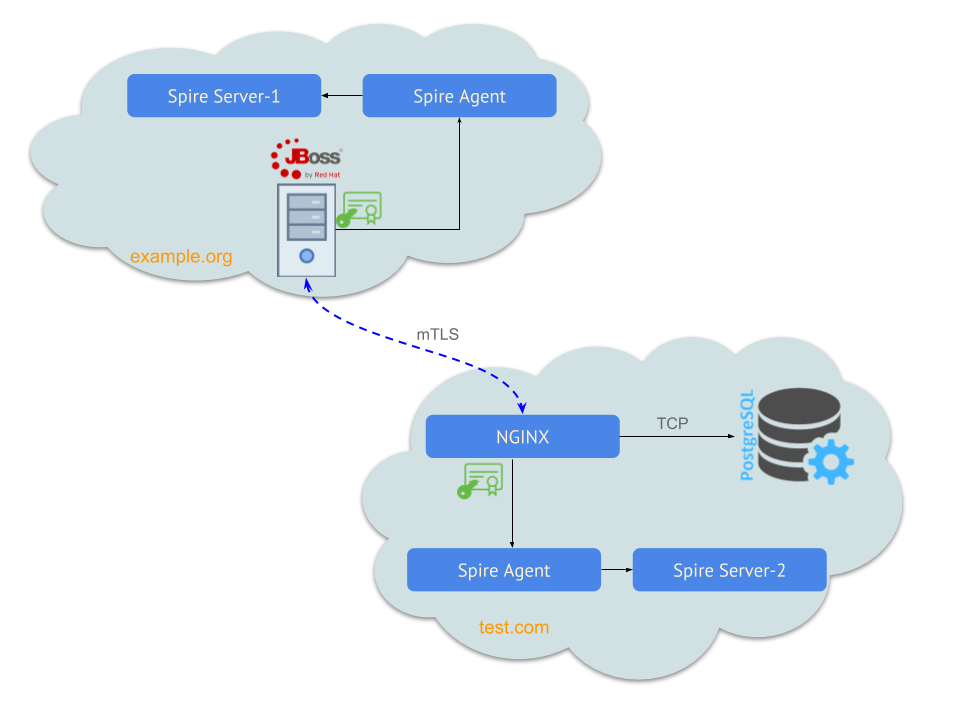
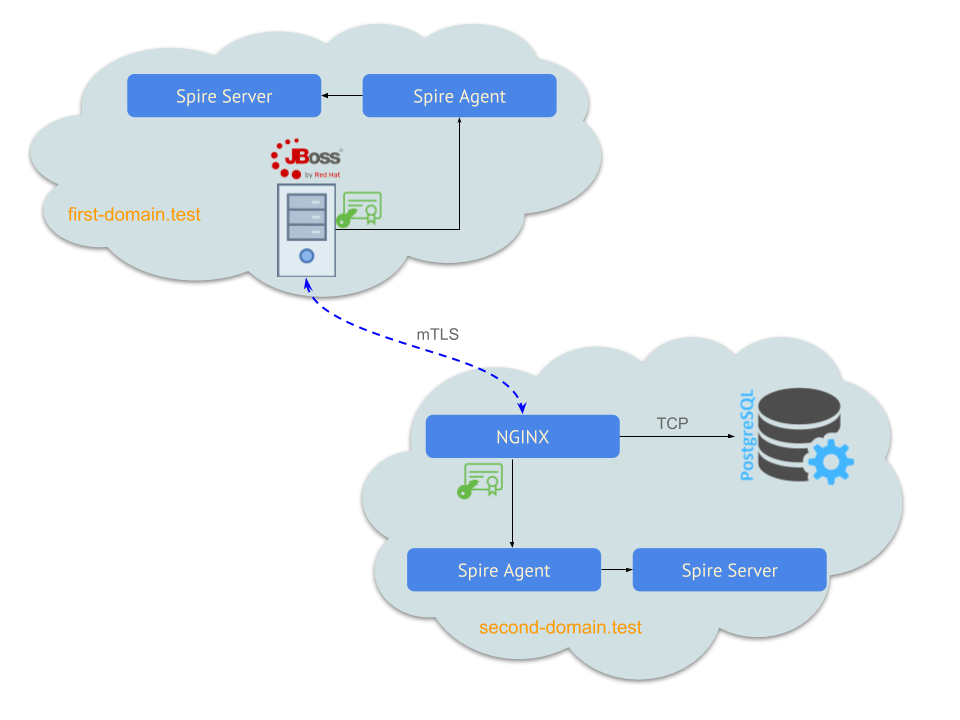
Improving trust domain names and updating README and configurations

diff --git a/java-spiffe-federation-jboss/README.md b/java-spiffe-federation-jboss/README.md
@@ -1,7 +1,12 @@
 # Federation and TCP support demo
 
-This example shows a Federation scenario with two trust-domains, one having a JBOSS Wildfly Server running a web-app 
-that consumes data from a PostgreSQL database proxied by a NGNIX running on the other trust-domain. 
+This example shows a Federation scenario with two trust-domains: `first-domain.test` and `second-domain-test`.  
+
+Under the trust domain `first-domain.test` there is a SPIRE server, a SPIRE agent, and a JBOSS server running a frontend application that
+consumes data from a PostgreSQL Database.
+
+Under the trust domain `second-domain.test` there are another SPIRE server and agent along with a NGNIX proxy that handles connections to 
+the PostgreSQL Database. 
 
 The NGINX Proxy supports SPIFFE based TCP connections. 
 
@@ -14,9 +19,9 @@ a SocketFactory implementation that leverages that Provider for supplying the SV
 
 ![diagram-simple](Federation%20Demo%20diagram%20-%20TCP.png)
 
-The JBOSS Server workload will get the SPIFFE ID `spiffe://example.org/front-end` and will be referred to as the _Frontend_.
+The JBOSS Server workload will get the SPIFFE ID `spiffe://first-domain.test/front-end` and will be referred to as the _Frontend_.
 
-The NGINX Proxy workload will get the SPIFFE ID `spiffe://test.com/back-end` and will be referred to as the _Backend_.
+The NGINX Proxy workload will get the SPIFFE ID `spiffe://second-domain.test/back-end` and will be referred to as the _Backend_.
 
 NGINX accepts SSL connections and connects to the local PostgresSQL database without SSL.
 
@@ -171,12 +176,12 @@ xDMsRI9LM8SOAbRX2KnCndbZBYA=
 -----END CERTIFICATE-----
 ```
 
-The bundle shown corresponds to Trust Domain `spiffe://example.org`
+The bundle shown corresponds to Trust Domain `spiffe://first-domain.test`
 
 Register the bundle in SPIRE Server 2: 
 
 ```
-$ docker-compose exec spire-server-backend ./spire-server bundle set -id spiffe://example.org
+$ docker-compose exec spire-server-backend ./spire-server bundle set -id spiffe://first-domain.test
 ```
 
 Copy and paste the bundle you got in the output from the previous step, and then press Ctrl+D.
@@ -225,12 +230,12 @@ hkjOPQQDAgNoADBlAjBXL2iFYDf59bvysJCJaYLzdl19QQWrAIjOmCcyCGWtVcU0
 -----END CERTIFICATE-----
 ```
 
-The bundle shown corresponds to Trust Domain `spiffe://test.com`
+The bundle shown corresponds to Trust Domain `spiffe://second-domain.test`
 
 Register the bundle in SPIRE Server 1: 
 
 ```
-$ docker-compose exec spire-server-frontend ./spire-server bundle set -id spiffe://test.com
+$ docker-compose exec spire-server-frontend ./spire-server bundle set -id spiffe://second-domain.test
 ```
 
 Copy and paste the bundle you got in the output from the previous step, and then press Ctrl+D.
@@ -238,43 +243,43 @@ Copy and paste the bundle you got in the output from the previous step, and then
 
 #### Generate the entries in the SPIRE Server registries: 
 
-Register SPIFFE ID `spiffe://example.org/front-end`:
+Register SPIFFE ID `spiffe://first-domain.test/front-end`:
 
 ```
-$ docker-compose exec spire-server-frontend ./spire-server entry create -parentID spiffe://example.org/host -spiffeID spiffe://example.org/front-end -federatesWith spiffe://test.com -selector unix:uid:1000
+$ docker-compose exec spire-server-frontend ./spire-server entry create -parentID spiffe://first-domain.test/host -spiffeID spiffe://first-domain.test/front-end -federatesWith spiffe://second-domain.test -selector unix:uid:1000
 
 Entry ID:	2a162e5f-7ee7-4ee2-8c89-0d290b0d9dce
-SPIFFE ID:	spiffe://example.org/front-end
-Parent ID:	spiffe://example.org/host
+SPIFFE ID:	spiffe://first-domain.test/front-end
+Parent ID:	spiffe://first-domain.test/host
 TTL:		3600
 Selector:	unix:uid:1000
-FederatesWith:	spiffe://test.com
+FederatesWith:	spiffe://second-domain.test
 ```
 
-An Entry was created in SPIRE Server 1 Registry for the spiffe id `spiffe://example.org/front-end` that federates with the Trust Domain `spiffe://test.com`
+An Entry was created in SPIRE Server 1 Registry for the spiffe id `spiffe://first-domain.test/front-end` that federates with the Trust Domain `spiffe://second-domain.test`
 
 
-Register SPIFFE ID `spiffe://test.com/front-end`:
+Register SPIFFE ID `spiffe://second-domain.test/front-end`:
 
 ```
-$ docker-compose exec spire-server-backend ./spire-server entry create -parentID spiffe://test.com/host -spiffeID spiffe://test.com/back-end -federatesWith spiffe://example.org -selector unix:uid:1000
+$ docker-compose exec spire-server-backend ./spire-server entry create -parentID spiffe://second-domain.test/host -spiffeID spiffe://second-domain.test/back-end -federatesWith spiffe://first-domain.test -selector unix:uid:1000
 
 Entry ID:	ced66654-fe63-46e5-895b-3896b686ea6a
-SPIFFE ID:	spiffe://test.com/back-end
-Parent ID:	spiffe://test.com/host
+SPIFFE ID:	spiffe://second-domain.test/back-end
+Parent ID:	spiffe://second-domain.test/host
 TTL:		3600
 Selector:	unix:uid:1000
-FederatesWith:	spiffe://example.org
+FederatesWith:	spiffe://first-domain.test
 ```
 
-An Entry was created in SPIRE Server 2 Registry for the spiffe id `spiffe://test.com/back-end` that federates with the Trust Domain `spiffe://example.org`
+An Entry was created in SPIRE Server 2 Registry for the spiffe id `spiffe://second-domain.test/back-end` that federates with the Trust Domain `spiffe://first-domain.test`
 
 #### Register the SPIRE Agents
 
 Generate Token for SPIRE Agent 1: 
 
 ```
-$ docker-compose exec spire-server-frontend ./spire-server token generate -spiffeID spiffe://example.org/host
+$ docker-compose exec spire-server-frontend ./spire-server token generate -spiffeID spiffe://first-domain.test/host
 
 Token: ac37c7b9-3eee-435a-adac-fb6822ad325c
 ```
@@ -290,8 +295,8 @@ DEBU[0000] WorkloadAttestor(k8s): configuring plugin     subsystem_name=catalog
 DEBU[0000] WorkloadAttestor(unix): configuring plugin    subsystem_name=catalog
 DEBU[0000] NodeAttestor(join_token): configuring plugin  subsystem_name=catalog
 DEBU[0000] No pre-existing agent SVID found. Will perform node attestation  subsystem_name=attestor
-DEBU[0000] Requesting SVID for spiffe://example.org/front-end  subsystem_name=manager
-DEBU[0000] Requesting SVID for spiffe://example.org/host  subsystem_name=manager
+DEBU[0000] Requesting SVID for spiffe://first-domain.test/front-end  subsystem_name=manager
+DEBU[0000] Requesting SVID for spiffe://first-domain.test/host  subsystem_name=manager
 INFO[0000] Starting workload API                         subsystem_name=endpoints
 ```
 
@@ -301,7 +306,7 @@ SPIRE Agent 1 is running.
 Generate Token for SPIRE Agent 2: 
 
 ```
-$ docker-compose exec spire-server-backend ./spire-server token generate -spiffeID spiffe://test.com/host
+$ docker-compose exec spire-server-backend ./spire-server token generate -spiffeID spiffe://second-domain.test/host
 
 Token: ac37c7b9-3eee-435a-adac-fb6822ad325c
 ```
@@ -317,8 +322,8 @@ DEBU[0000] KeyManager(memory): configuring plugin        subsystem_name=catalog
 DEBU[0000] WorkloadAttestor(k8s): configuring plugin     subsystem_name=catalog
 DEBU[0000] WorkloadAttestor(unix): configuring plugin    subsystem_name=catalog
 DEBU[0000] No pre-existing agent SVID found. Will perform node attestation  subsystem_name=attestor
-DEBU[0000] Requesting SVID for spiffe://test.com/back-end  subsystem_name=manager
-DEBU[0000] Requesting SVID for spiffe://test.com/host    subsystem_name=manager
+DEBU[0000] Requesting SVID for spiffe://second-domain.test/back-end  subsystem_name=manager
+DEBU[0000] Requesting SVID for spiffe://second-domain.test/host    subsystem_name=manager
 INFO[0000] Starting workload API                   
 ```
 
@@ -433,7 +438,7 @@ stream {
     ssl_spiffe on;
 
     # List of SPIFFE IDs to accept from client's certificate
-    ssl_spiffe_accept spiffe://example.org/front-end;
+    ssl_spiffe_accept spiffe://first-domain.test/front-end;
 
     # Redirect traffic to postgres database
     proxy_pass            localhost:5432;
@@ -441,7 +446,7 @@ stream {
 }
 ```
 
-It validates that the SPIFFE ID in the Peer's SVID is `spiffe://example.org/front-end`.
+It validates that the SPIFFE ID in the Peer's SVID is `spiffe://first-domain.test/front-end`.
 
 ## More information
 
